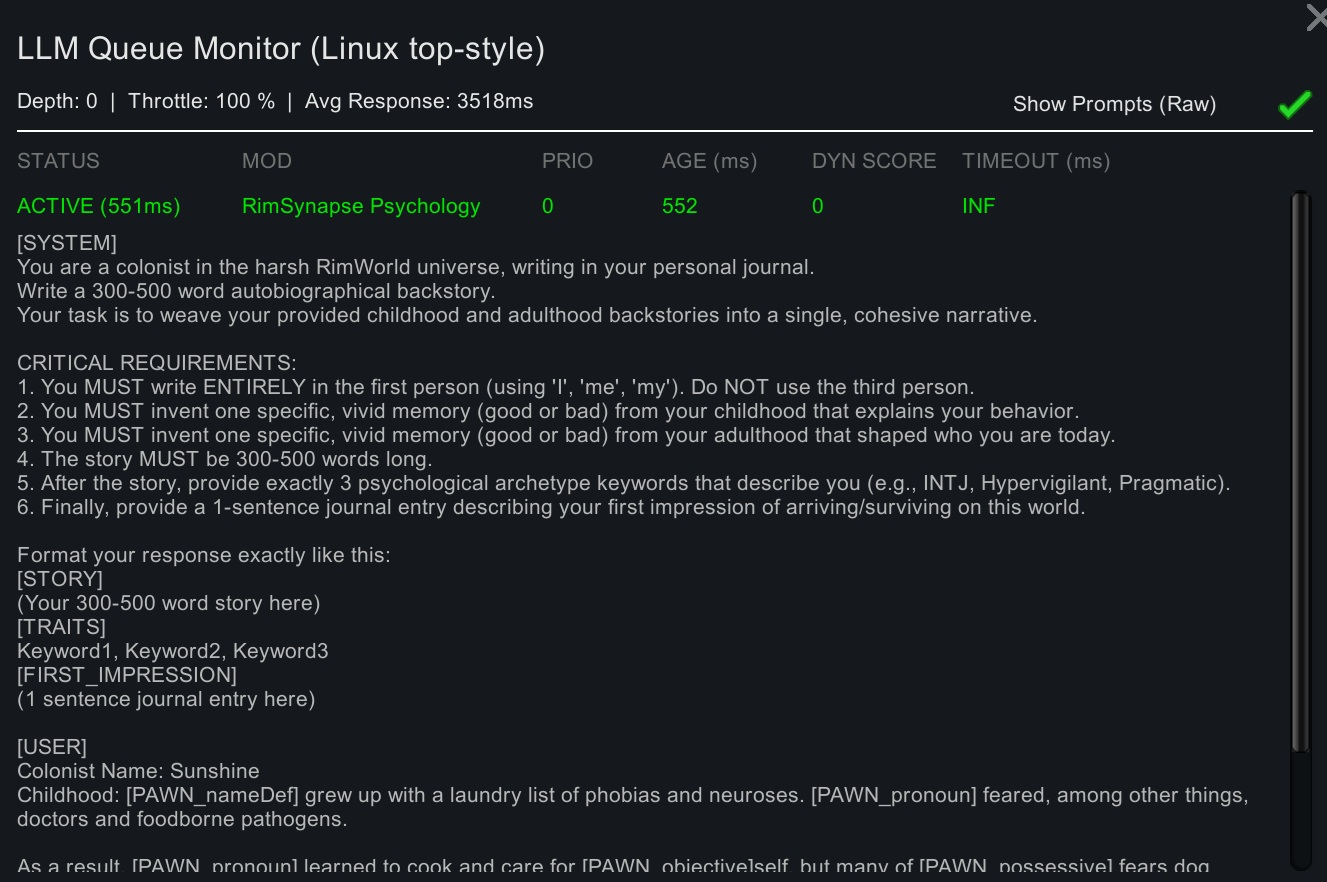
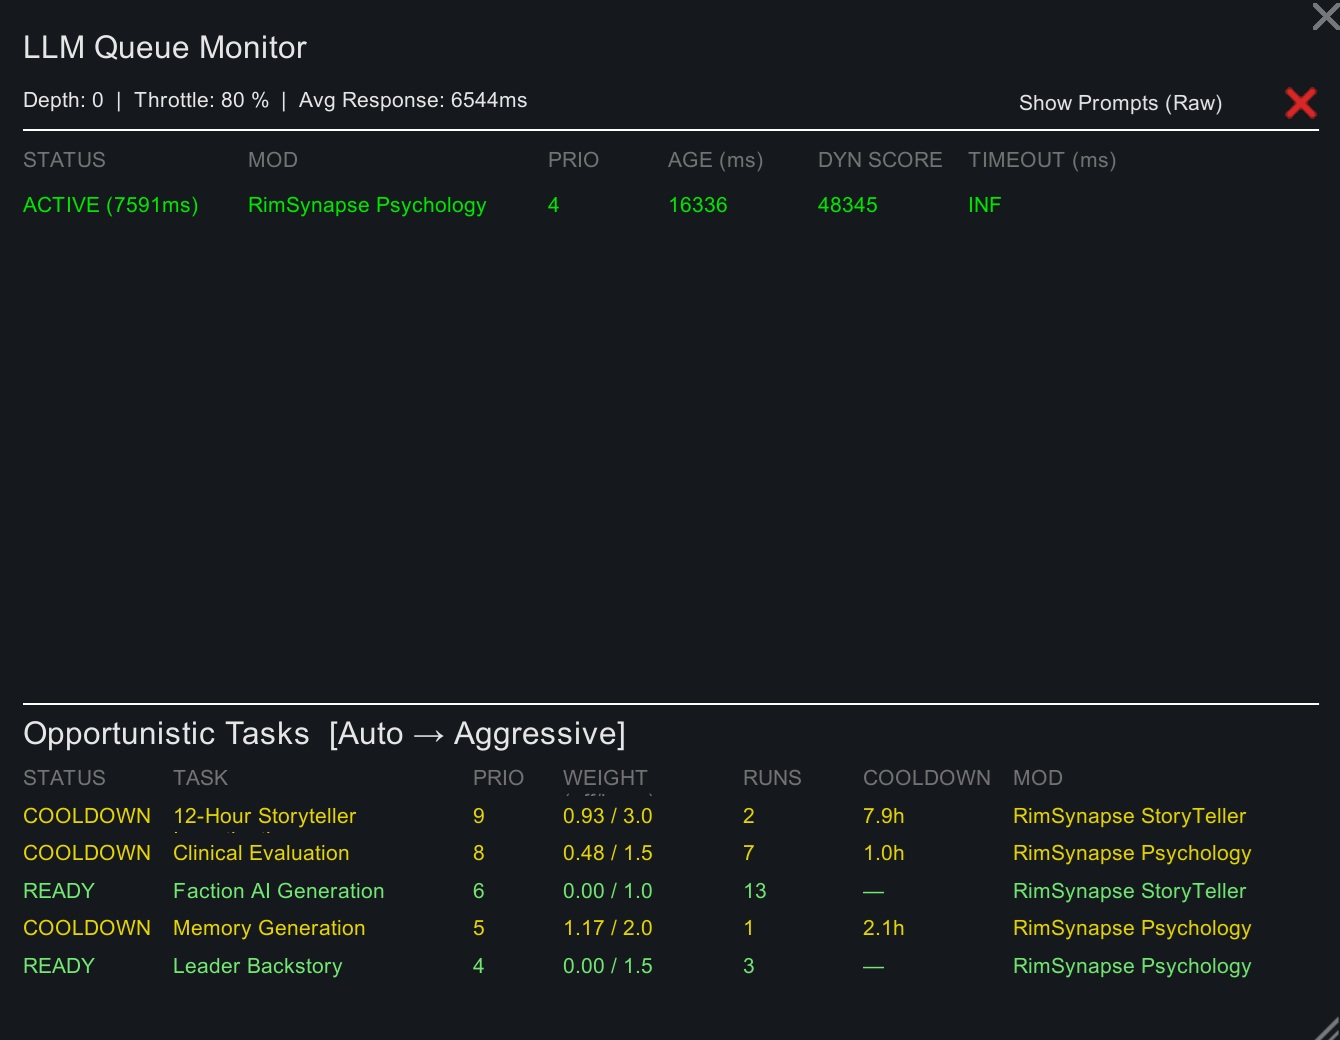
feat: add SynapseCorePawnComp and utility tools for tracking weighted pawn memories with absolute tick timestamps

diff --git a/Source/Utils/SynapseDateHelper.cs b/Source/Utils/SynapseDateHelper.cs
@@ -1,0 +1,107 @@
+using System;
+using RimWorld;
+using Verse;
+
+namespace RimSynapse.Utils
+{
+    /// <summary>
+    /// Shared date/tick utility for converting between pawn ages and absolute ticks.
+    /// Used by Psychology (pawn memories) and StoryTeller (faction history) to
+    /// generate historically-accurate timestamps for pre-game events.
+    /// 
+    /// RimWorld tick system:
+    ///   - 60,000 ticks per day
+    ///   - 60 days per year (15 per quadrum × 4 quadrums)
+    ///   - 3,600,000 ticks per year
+    ///   - TicksAbs = absolute ticks since year 0
+    ///   - TicksGame = ticks since game started (starts at 0)
+    ///   - Default starting year: 5500
+    /// </summary>
+    public static class SynapseDateHelper
+    {
+        public const int TicksPerDay = 60000;
+        public const int DaysPerYear = 60;
+        public const int TicksPerYear = TicksPerDay * DaysPerYear; // 3,600,000
+
+        /// <summary>
+        /// Gets the adjustment offset to convert game ticks to absolute ticks.
+        /// adjTick = TicksAbs - TicksGame (the absolute tick when the game started)
+        /// </summary>
+        public static long GetAdjustmentTick()
+        {
+            return (long)Find.TickManager.TicksAbs - (long)Find.TickManager.TicksGame;
+        }
+
+        /// <summary>
+        /// Converts a game-relative tick to an absolute tick.
+        /// </summary>
+        public static long GameTickToAbsTick(int gameTick)
+        {
+            return gameTick + GetAdjustmentTick();
+        }
+
+        /// <summary>
+        /// Gets the absolute tick for when a pawn was a specific biological age.
+        /// Uses pawn.ageTracker.BirthAbsTicks as the anchor.
+        /// </summary>
+        public static long GetAbsTickAtAge(Pawn pawn, int age)
+        {
+            long birthAbsTick = pawn.ageTracker.BirthAbsTicks;
+            return birthAbsTick + (long)age * TicksPerYear;
+        }
+
+        /// <summary>
+        /// Gets a reasonable absolute tick for a childhood memory (age 7-12).
+        /// The range gives variety — different pawns remember different ages.
+        /// </summary>
+        public static long GetChildhoodMemoryTick(Pawn pawn)
+        {
+            int age = Rand.RangeInclusive(7, 12);
+            return GetAbsTickAtAge(pawn, age);
+        }
+
+        /// <summary>
+        /// Gets a reasonable absolute tick for an adulthood memory (age 18-25).
+        /// Capped at currentAge - 2 so the memory isn't too recent.
+        /// </summary>
+        public static long GetAdulthoodMemoryTick(Pawn pawn)
+        {
+            int currentAge = pawn.ageTracker.AgeBiologicalYears;
+            int maxAge = Math.Max(18, currentAge - 2);
+            int age = Rand.RangeInclusive(18, Math.Min(maxAge, 25));
+            return GetAbsTickAtAge(pawn, age);
+        }
+
+        /// <summary>
+        /// Gets the current absolute tick (for "now" events like arrival, first impression).
+        /// </summary>
+        public static long GetCurrentAbsTick()
+        {
+            return Find.TickManager.TicksAbs;
+        }
+
+        /// <summary>
+        /// Formats an absolute tick as a RimWorld date string.
+        /// e.g., "3 of Aprimay, 5492"
+        /// </summary>
+        public static string FormatAbsTick(long absTick, float longitude = 0f)
+        {
+            int tickInt = (int)Math.Max(0, absTick); // GenDate expects int, clamp to 0 minimum
+            int day = GenDate.DayOfYear(tickInt, longitude);
+            Quadrum quadrum = GenDate.Quadrum(tickInt, longitude);
+            int year = GenDate.Year(tickInt, longitude);
+            return $"{day} of {quadrum.Label()}, {year}";
+        }
+
+        /// <summary>
+        /// Gets approximate pawn age at a given absolute tick.
+        /// Useful for display: "Age 8 — 3 of Aprimay, 5492"
+        /// </summary>
+        public static int GetAgeAtAbsTick(Pawn pawn, long absTick)
+        {
+            long birthAbsTick = pawn.ageTracker.BirthAbsTicks;
+            long ticksSinceBirth = absTick - birthAbsTick;
+            return (int)(ticksSinceBirth / TicksPerYear);
+        }
+    }
+}

diff --git a/Source/Models/WeightedMemory.cs b/Source/Models/WeightedMemory.cs
@@ -8,7 +8,13 @@ namespace RimSynapse.Models
         public string summary;
         public string memoryType;        // raid, social, event, trade, quest, backstory, etc.
         public List<string> tags = new List<string>();
+        
+        /// <summary>Absolute tick when this memory occurred. Used for date display and chronological sorting.</summary>
+        public long absTick;
+        
+        /// <summary>DEPRECATED — kept for save compatibility. New code should use absTick.</summary>
         public int gameTick;
+        
         public float weight = 1.0f;             // 0.0 to 1.0
         public float baseWeight = 1.0f;
         public float decayRate = 0.05f;          // default 0.05
@@ -24,6 +30,7 @@ namespace RimSynapse.Models
             Scribe_Values.Look(ref memoryType, "memoryType");
             Scribe_Collections.Look(ref tags, "tags", LookMode.Value);
             Scribe_Values.Look(ref gameTick, "gameTick");
+            Scribe_Values.Look(ref absTick, "absTick", 0L);
             Scribe_Values.Look(ref weight, "weight", 1.0f);
             Scribe_Values.Look(ref baseWeight, "baseWeight", 1.0f);
             Scribe_Values.Look(ref decayRate, "decayRate", 0.05f);
@@ -35,5 +42,20 @@ namespace RimSynapse.Models
                 if (tags == null) tags = new List<string>();
             }
         }
+
+        /// <summary>
+        /// Called after all game data is loaded. Migrates old gameTick-only memories
+        /// to use absTick by applying the adjustment offset.
+        /// Should be called from the owning comp's PostLoadInit or equivalent.
+        /// </summary>
+        public void MigrateTickIfNeeded()
+        {
+            if (absTick == 0L && gameTick != 0)
+            {
+                // Old save: absTick was never written. Convert gameTick to absolute.
+                absTick = Utils.SynapseDateHelper.GameTickToAbsTick(gameTick);
+            }
+        }
     }
 }
+

diff --git a/Source/Comps/SynapseCorePawnComp.cs b/Source/Comps/SynapseCorePawnComp.cs
@@ -14,6 +14,7 @@ namespace RimSynapse.Comps
         public string personalitySummary;
         public string dynamicBackstory;
         public string clinicalAssessment;
+        public string hometown;
         public List<string> llmTraits = new List<string>();
         
         // Active AI-driven modifiers shared across mods
@@ -31,6 +32,7 @@ namespace RimSynapse.Comps
             Scribe_Values.Look(ref personalitySummary, "synapsePersonality");
             Scribe_Values.Look(ref dynamicBackstory, "dynamicBackstory");
             Scribe_Values.Look(ref clinicalAssessment, "clinicalAssessment");
+            Scribe_Values.Look(ref hometown, "hometown");
             Scribe_Collections.Look(ref llmTraits, "llmTraits", LookMode.Value);
             
             Scribe_Collections.Look(ref thoughtSensitivities, "thoughtSensitivities", LookMode.Value, LookMode.Value);
@@ -43,6 +45,15 @@ namespace RimSynapse.Comps
                 if (llmTraits == null) llmTraits = new List<string>();
                 if (thoughtSensitivities == null) thoughtSensitivities = new Dictionary<string, float>();
                 if (relationSensitivities == null) relationSensitivities = new Dictionary<string, float>();
+            }
+            
+            // Migrate old gameTick-only memories to absTick
+            if (Scribe.mode == LoadSaveMode.PostLoadInit)
+            {
+                foreach (var memory in memories)
+                {
+                    memory.MigrateTickIfNeeded();
+                }
             }
         }
 